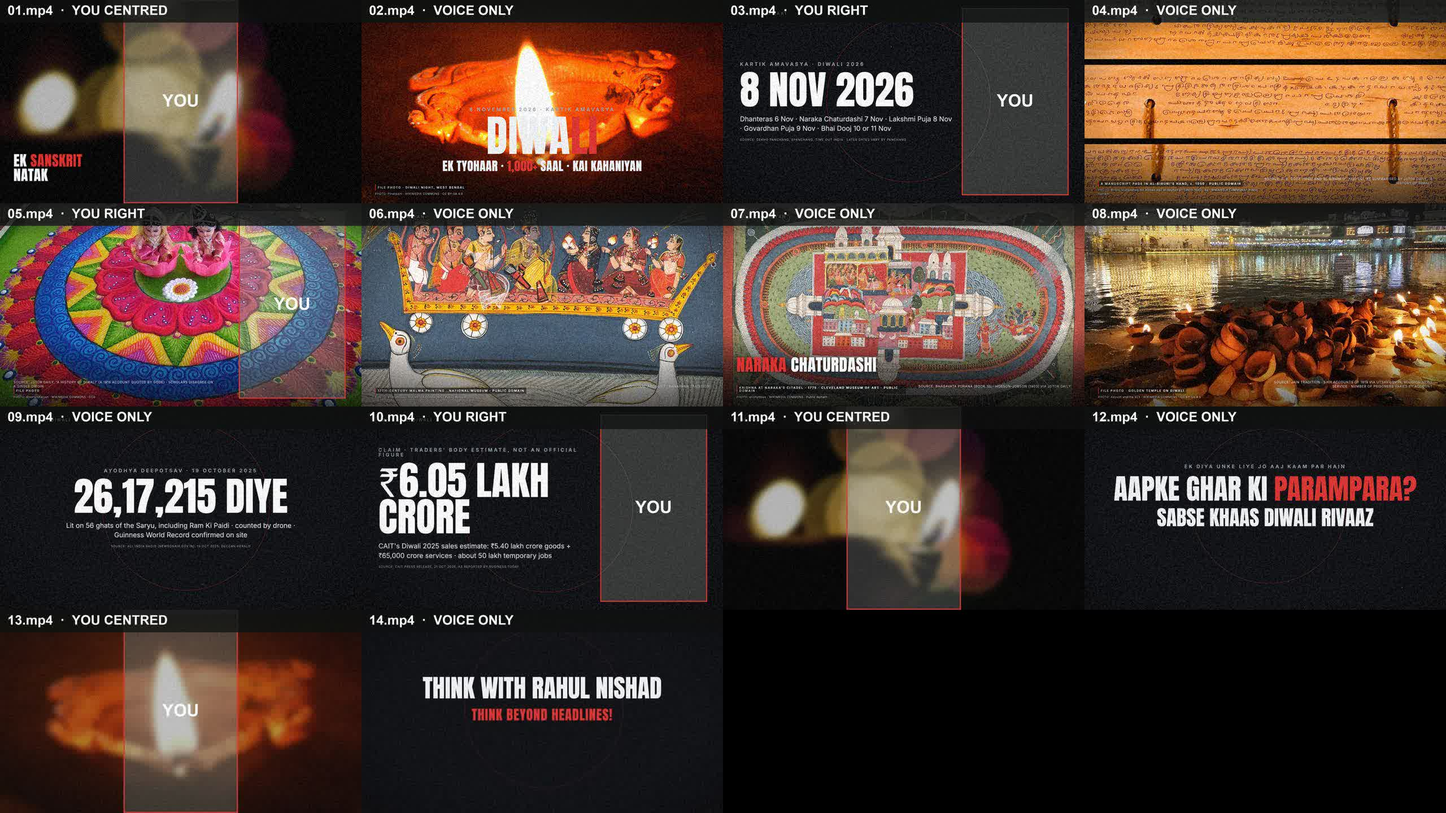
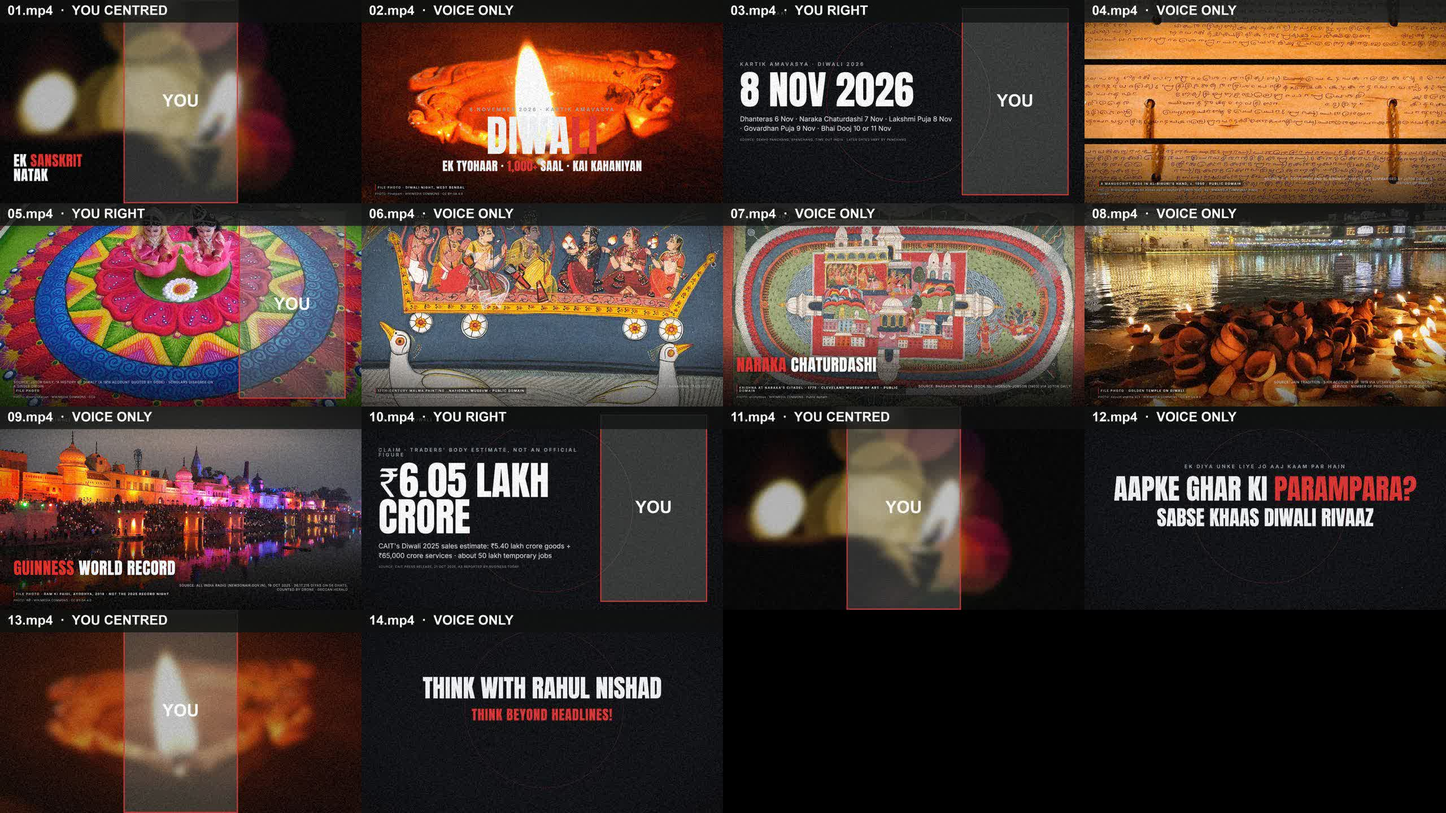
Diwali scene 09: photo with key-phrase number; ignore render frames for every sample

Changed region(s): [[0.0, 0.5, 0.25, 0.75], [0.1875, 0.7188, 0.2188, 0.75]]

diff --git a/samples/diwali/RECORDING_SCRIPT.md b/samples/diwali/RECORDING_SCRIPT.md
@@ -93,7 +93,7 @@ _Direction: This is the 'think beyond headlines' beat. Clear, respectful, one fa
 >
 > अब आज पर आते हैं। उन्नीस अक्टूबर दो हज़ार पच्चीस को अयोध्या ने सरयू के छप्पन घाटों पर छब्बीस लाख सत्रह हज़ार दो सौ पंद्रह दिये जलाए। गिनती ड्रोन से हुई, और गिनीज़ वर्ल्ड रिकॉर्ड बना। जिस शहर की कहानी से ये त्योहार जुड़ा है, वही शहर आज दुनिया का सबसे बड़ा दीपोत्सव करता है।
 **Face:** Voice only. A little awe in the voice on the number.
-**On screen:** fact card → Ram Ki Paidi ghat at night (real photo)
+**On screen:** Ram Ki Paidi ghat at night (real photo)
 _Direction: Build to the number. Say it slowly: 'chhabbis lakh, satrah hazaar, do sau pandrah'._
 
 **10.mp4** · Shot A · You on the right, graphic on the left
